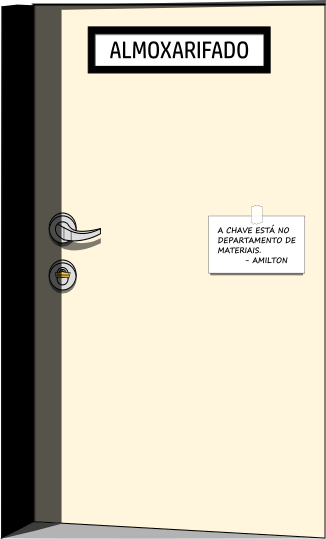
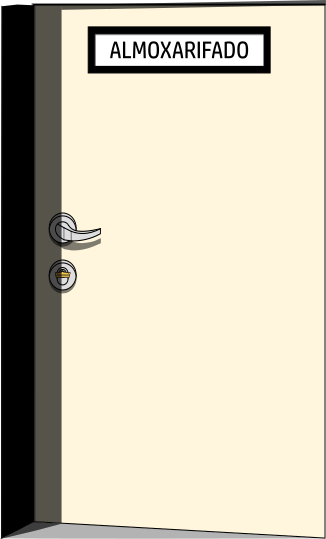
Prototype's changes.

Changed region(s): [[0.6135, 0.3562, 0.9509, 0.5343]]

diff --git a/prototypes/windows-resizing/scr_size_test.py b/prototypes/windows-resizing/scr_size_test.py
@@ -4,26 +4,22 @@ scr_size = 1010, 691
 screen = pygame.display.set_mode(scr_size)
 pygame.display.set_caption('Screen Size Test')
 
-picture = pygame.image.load('entrada_do_almoxarifado.png')
+picture = pygame.image.load('departamentos.png')
 
-porta_1 = pygame.image.load('porta_do_almoxarifado1.png')
-porta_2 = pygame.image.load('porta_do_almoxarifado2.png')
-porta_3 = pygame.image.load('porta_do_almoxarifado3.png')
+porta_1 = pygame.image.load('porta_do_DM1.png')
+porta_2 = pygame.image.load('porta_do_DM2.png')
 
 no = 0
-portas = [porta_1, porta_2, porta_3]
+portas = [porta_1, porta_2]
 porta_atual = portas[no]
 
 porta_rect_1 = porta_1.get_rect()
-porta_rect_1.topleft = (408, 12)
+porta_rect_1.topleft = (689, 95)
 
 porta_rect_2 = porta_2.get_rect()
-porta_rect_2.topleft = (408, 12)
+porta_rect_2.topleft = (690, 95)
 
-porta_rect_3 = porta_3.get_rect()
-porta_rect_3.topleft = (408, 7)
-
-portas_r = [porta_rect_1, porta_rect_2, porta_rect_3]
+portas_r = [porta_rect_1, porta_rect_2]
 porta_atual_r = portas_r[no]
 
 inventory = pygame.image.load('inventario.png')
@@ -41,7 +37,7 @@ while not done:
         if event.type == pygame.KEYDOWN:
             if event.key == pygame.K_RIGHT:
                 no += 1
-                if no > 2:
+                if no > 1:
                     no = 0
 
                 porta_atual = portas[no]
